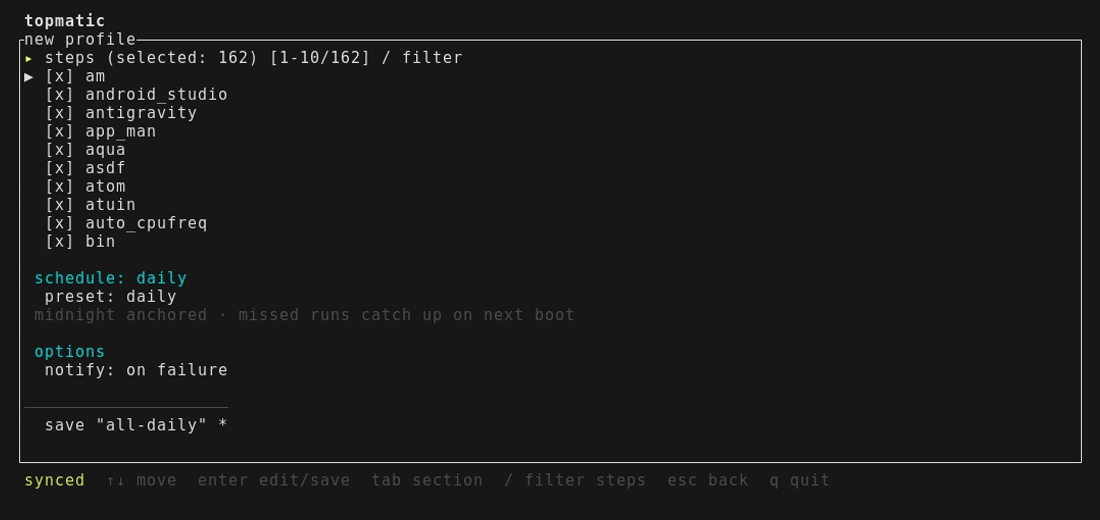
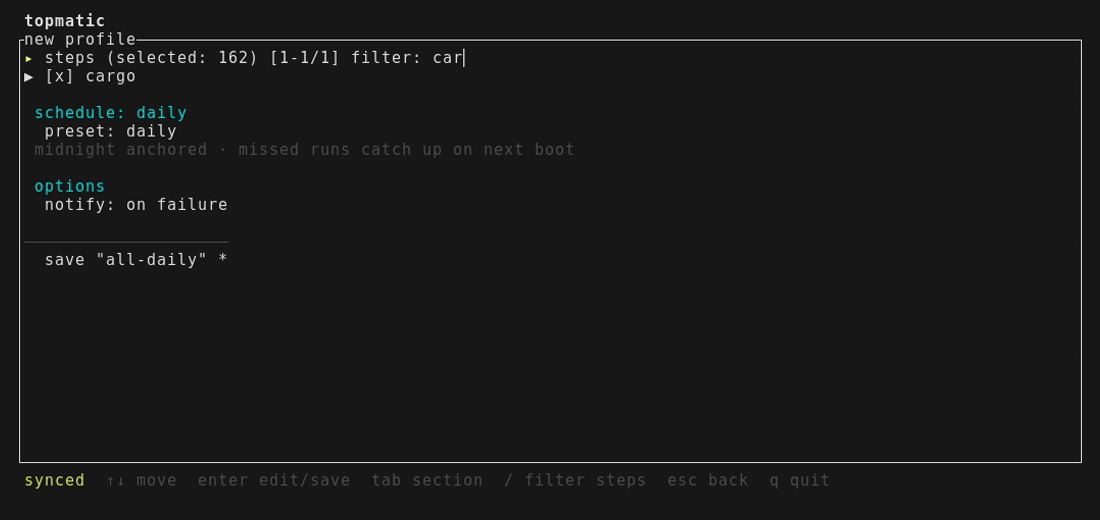
Validate the interface via cell dumps and add help and logs shots
A permanent diagnostic test now renders every view at the screenshot
grid and prints the exact terminal cells, which exposed a stale help
line still advertising the removed linger key, a stray separator above
the save row, mismatched pane title casing and logs title hints that
disagreed with the footer keys. The editor capture now demonstrates
the step filter so a checked step is actually visible, and the README
gains help and logs screenshots next to the refreshed pair.

diff --git a/src/tui/app.rs b/src/tui/app.rs
@@ -440,6 +440,7 @@ mod tests {
     use crate::domain::profile::{NotifyPolicy, Profile, Scope};
     use crate::domain::schedule::Schedule;
     use crate::systemd::test_support::FakeCtl;
+    use crate::tui::views;
     use std::sync::Arc;
 
     struct Harness {
@@ -528,6 +529,54 @@ mod tests {
                 .join("topmatic@all-daily.timer.d/10-schedule.conf")
                 .is_file()
         );
+    }
+
+    #[test]
+    fn dump_views_at_screenshot_grid() {
+        let (mut app, _harness) = harness(&[profile("all-daily"), profile("dev-tools")]);
+        app.catalog = presets::fallback_catalog();
+        let views: [(&str, View); 6] = [
+            ("dashboard", View::Dashboard),
+            ("picker", View::PresetPicker { index: 0 }),
+            (
+                "editor",
+                View::Editor(Box::new(editor::EditorState::from_preset(
+                    app.catalog.clone(),
+                    vec!["cargo".to_string(), "flatpak".to_string()],
+                    "all-daily",
+                    crate::domain::schedule::DEFAULT_RANDOM_DELAY_SEC,
+                ))),
+            ),
+            ("help", View::Help),
+            (
+                "confirm",
+                View::Confirm {
+                    profile: "all-daily".to_string(),
+                },
+            ),
+            (
+                "logs",
+                View::Logs(super::logs::LogsState::open(&app.paths, "all-daily")),
+            ),
+        ];
+        for (name, view) in views {
+            app.view = view;
+            let mut terminal =
+                ratatui::Terminal::new(ratatui::backend::TestBackend::new(119, 27)).unwrap();
+            terminal.draw(|frame| views::draw(&app, frame)).unwrap();
+            let buffer = terminal.backend().buffer().clone();
+            println!("=== {name} ===");
+            for y in 0..buffer.area.height {
+                let row: String = (0..buffer.area.width)
+                    .map(|x| buffer[(x, y)].symbol().to_string())
+                    .collect();
+                if row.trim().is_empty() {
+                    println!("{y:2}|");
+                } else {
+                    println!("{y:2}|{}", row.trim_end());
+                }
+            }
+        }
     }
 
     #[test]

diff --git a/src/tui/dashboard.rs b/src/tui/dashboard.rs
@@ -195,7 +195,7 @@ pub fn render(app: &App, frame: &mut Frame, area: Rect) -> PaneAreas {
         None => vec![Line::from("no profile selected")],
     };
     let paragraph = Paragraph::new(detail)
-        .block(Block::bordered().title("detail"))
+        .block(Block::bordered().title("Details"))
         .wrap(ratatui::widgets::Wrap { trim: true });
     frame.render_widget(paragraph, detail_area);
 
@@ -323,7 +323,7 @@ mod tests {
             .draw(|frame| {
                 let area = frame.area();
                 let paragraph = Paragraph::new(detail_lines(&profile, &row, None))
-                    .block(Block::bordered().title("detail"))
+                    .block(Block::bordered().title("Details"))
                     .wrap(Wrap { trim: true });
                 frame.render_widget(paragraph, area);
             })

diff --git a/src/tui/views.rs b/src/tui/views.rs
@@ -198,9 +198,7 @@ pub(crate) fn help_lines() -> Vec<Line<'static>> {
         Line::from(""),
         Line::from("n  new profile (presets)      e  edit profile      d  delete profile"),
         Line::from("r  run now (systemd runs it in the background)"),
-        Line::from(
-            "l  browse run logs            g  enable lingering (user units keep running when you log out)",
-        ),
+        Line::from("l  browse run logs"),
         Line::from("/  filter profiles                     ?  this help"),
         Line::from(""),
         Line::from("editor: tab switches section, enter acts on the highlighted row,"),

diff --git a/src/tui/logs.rs b/src/tui/logs.rs
@@ -147,10 +147,7 @@ pub fn render(state: &LogsState, frame: &mut Frame, area: Rect) {
         .collect();
 
     let list = List::new(items)
-        .block(Block::bordered().title(format!(
-            "runs of {} (Enter: open, r: refresh, Esc: back)",
-            state.profile
-        )))
+        .block(Block::bordered().title(format!("runs of {}", state.profile)))
         .style(Style::new().fg(Color::Cyan));
     frame.render_widget(list, area);
 }

diff --git a/src/tui/editor/render.rs b/src/tui/editor/render.rs
@@ -92,10 +92,6 @@ impl EditorState {
         )));
 
         lines.push(Line::from(""));
-        lines.push(Line::from(Span::styled(
-            "─".repeat(20),
-            Style::new().fg(Color::DarkGray),
-        )));
         lines.push(Line::from(format!(
             "{}{}",
             if self.section == Section::Save {

diff --git a/README.md b/README.md
@@ -52,6 +52,14 @@ New profiles start from a preset — everything user-level, dev tools or Flatpak
 
 ![editor](docs/assets/editor.png)
 
+Press `?` anywhere for the full key map and what lingering means:
+
+![help](docs/assets/help.png)
+
+Every run leaves a log you can browse with `l`:
+
+![logs](docs/assets/logs.png)
+
 Profiles live in `~/.config/topmatic/config.toml` — edit it by hand or via TUI, both are first-class; topmatic reconciles systemd to match it on every start. A `[defaults]` table tunes the run behavior for every profile (`retries`, `retry_delay`, `give_up_after`, `network_wait`, `random_delay` as `2min`-style values); `config.example.toml`, regenerated next to it, documents every key with the current defaults.
 
 ### Schedules as dotfiles
